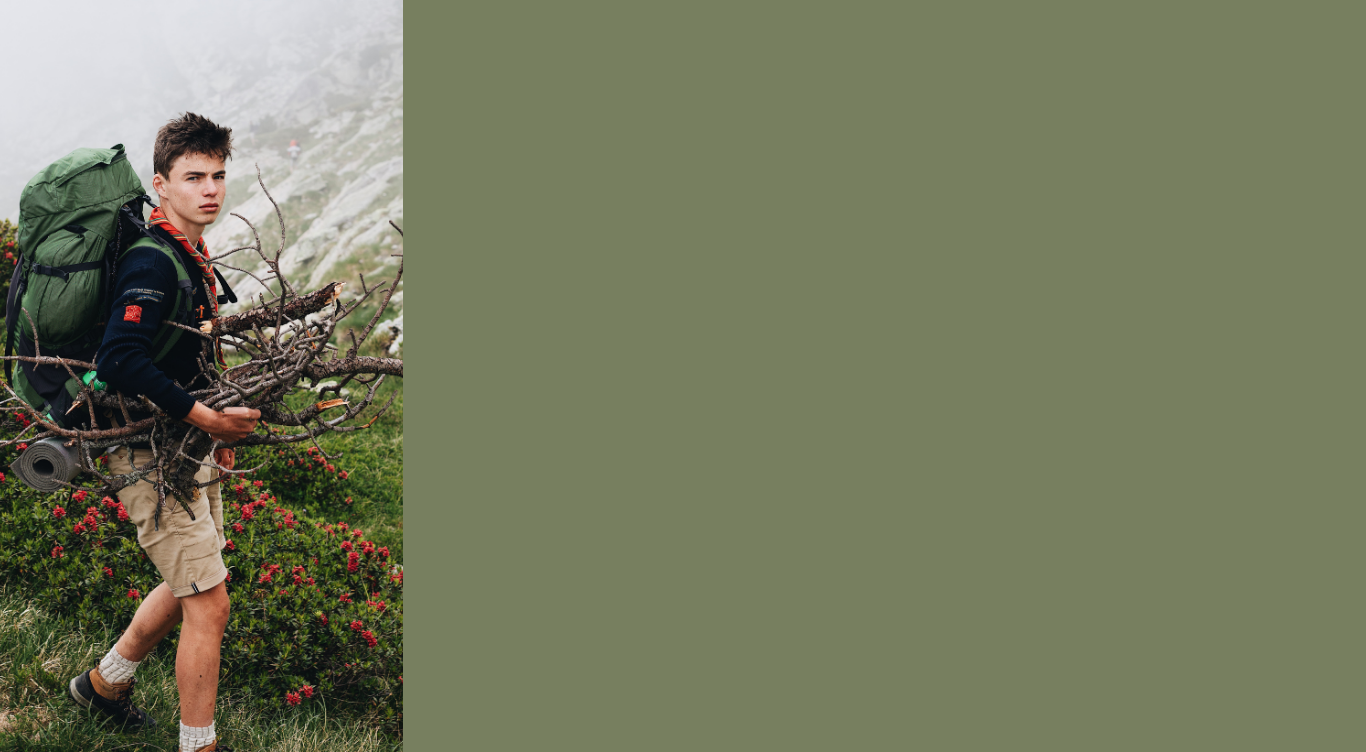
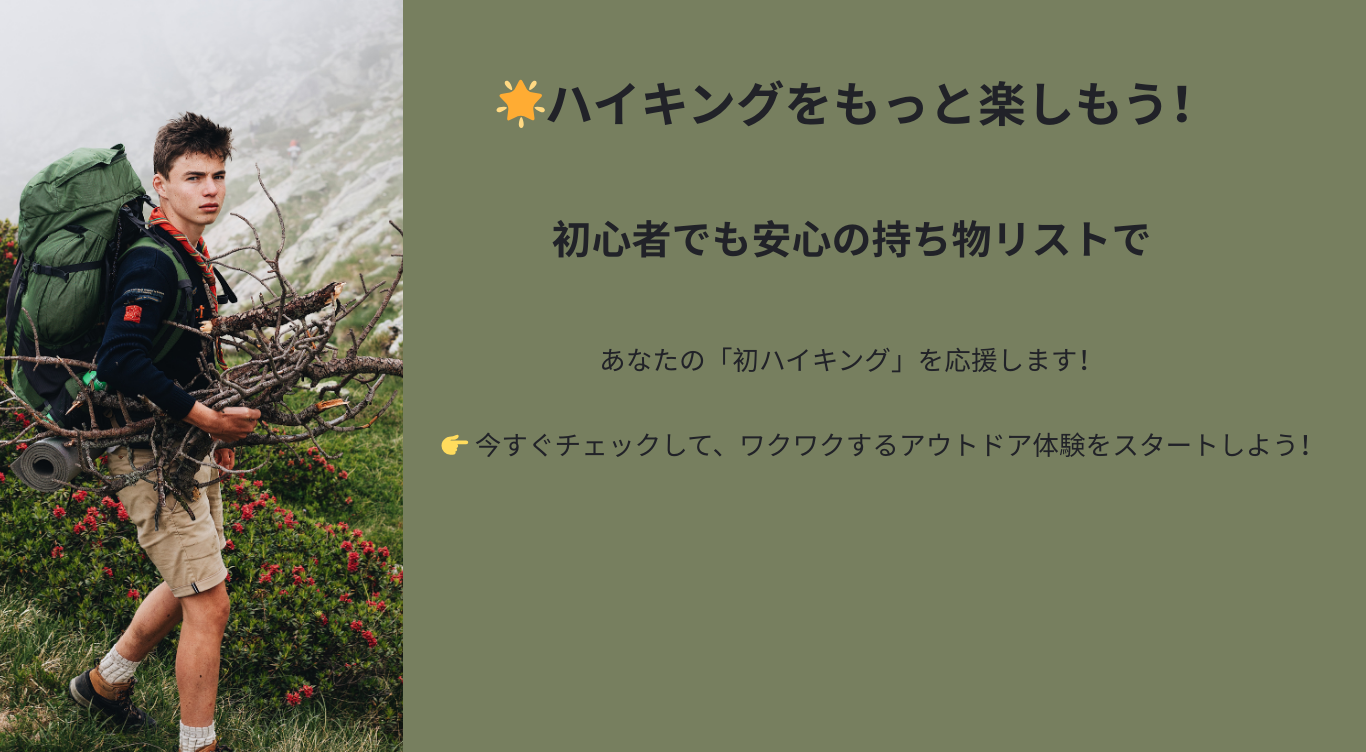
a

diff --git a/index.html b/index.html
@@ -4,16 +4,117 @@
     <meta charset="UTF-8">
     <meta name="viewport" content="width=device-width, initial-scale=1.0">
     <title>🏕 Hiking Checklist</title>
+    <meta name="viewport" content="width=device-width, initial-scale=1">
+    <link href="https://cdn.jsdelivr.net/npm/bootstrap@5.3.3/dist/css/bootstrap.min.css" rel="stylesheet">
+    <script src="https://cdn.jsdelivr.net/npm/bootstrap@5.3.3/dist/js/bootstrap.bundle.min.js"></script>
     <link rel="stylesheet"href="style.css">
 </head>
 <body>
-
-    <div class="image-container">
-        <img src="10.png"alt="サンプル画像"
+    <div class="title-wrapper">
+        <h2 class="main-title">⛰Hike Life</h2>
+      </div>
+      <div class="image-container">
+        
+        <img src="1.png"alt="サンプル画像">
+        <img src="2.png"alt="サンプル画像">
+        <img src="3.png"alt="サンプル画像">
+        <img src="4.png"alt="サンプル画像">
         
     </div>
-
-    <table cellpadding="0" cellspacing="0" border="0" style=" border:1px solid #ccc; width:300px;"><tbody><tr style="border-style:none;"><td style="vertical-align:top; border-style:none; padding:10px; width:44px;"><a href="https://rpx.a8.net/svt/ejp?a8mat=4534K0+61WO6Q+2HOM+BWGDT&rakuten=y&a8ejpredirect=https%3A%2F%2Fhb.afl.rakuten.co.jp%2Fhgc%2Fg00thk84.2bo11768.g00thk84.2bo122de%2Fa25040868022_4534K0_61WO6Q_2HOM_BWGDT%3Fpc%3Dhttps%253A%252F%252Fitem.rakuten.co.jp%252Fkom-kom%252Fone-touch-tent%252F%26amp%3Bm%3Dhttp%253A%252F%252Fm.rakuten.co.jp%252Fkom-kom%252Fi%252F10000075%252F%26amp%3Brafcid%3Dwsc_i_is_33f72da33714639c415e592c9633ecd7" rel="nofollow"><img border="0" alt="" src="https://thumbnail.image.rakuten.co.jp/@0_mall/kom-kom/cabinet/09525697/imgrc0093258016.jpg?_ex=64x64" /></a></td><td style="font-size:12px; vertical-align:middle; border-style:none; padding:10px;"><p style="padding:0; margin:0;"><a href="https://rpx.a8.net/svt/ejp?a8mat=4534K0+61WO6Q+2HOM+BWGDT&rakuten=y&a8ejpredirect=https%3A%2F%2Fhb.afl.rakuten.co.jp%2Fhgc%2Fg00thk84.2bo11768.g00thk84.2bo122de%2Fa25040868022_4534K0_61WO6Q_2HOM_BWGDT%3Fpc%3Dhttps%253A%252F%252Fitem.rakuten.co.jp%252Fkom-kom%252Fone-touch-tent%252F%26amp%3Bm%3Dhttp%253A%252F%252Fm.rakuten.co.jp%252Fkom-kom%252Fi%252F10000075%252F%26amp%3Brafcid%3Dwsc_i_is_33f72da33714639c415e592c9633ecd7" rel="nofollow">5の日限定全品5%OFFクーポン【天井カバー付き】ワンタッチテント フルクローズ 4人用 3人用 テント ワンタッチ おしゃれ ドームテント 折りたたみ 小型 遮光 簡易テント 軽量 防水 防災 キャンプ アウトドア ソロキャンプ 公園 uv加工 紫外線防止</a></p><p style="color:#666; margin-top:5px line-height:1.5;">価格:<span style="font-size:14px; color:#C00; font-weight:bold;">6980円</span><br/><span style="font-size:10px; font-weight:normal;">(2025/4/15 12:23時点)</span><br/><span style="font-weight:bold;">感想(208件)</span></p></td></tr></tbody></table>
-    <img border="0" width="1" height="1" src="https://www14.a8.net/0.gif?a8mat=4534K0+61WO6Q+2HOM+BWGDT" alt="">
+    <h2 class="section-title">⬇ 下のオススメリストをチェックしてみてね！</h2>
+<div class="field-container mt-4">
+   <div class="row">
+        
+        <div class="col-sm-6 col-md-3 mb-4">
+        <div class="card">
+        <img src="https://thumbnail.image.rakuten.co.jp/@0_mall/via-torino/cabinet/1/16/1657/1657-0085-1.jpg?_ex=128x128" class="card-img-top" alt="...">
+          <div class="card-body">
+          <h5 class="card-title">ハイキングシューズ</h5>
+          <p class="card-text text-truncate">ハイキング初心者にとって本当に頼れる一足です。疲れにくくて安全、そして見た目もおしゃれ。最初の一足として、本気でおすすめします！</p>
+          <a href="https://rpx.a8.net/svt/ejp?a8mat=4534K0+61WO6Q+2HOM+BWGDT&rakuten=y&a8ejpredirect=https%3A%2F%2Fhb.afl.rakuten.co.jp%2Fhgc%2Fg00qkr74.2bo11786.g00qkr74.2bo1295f%2Fa25040868022_4534K0_61WO6Q_2HOM_BWGDT%3Fpc%3Dhttps%253A%252F%252Fitem.rakuten.co.jp%252Fvia-torino%252F1657-0085%252F%26amp%3Bm%3Dhttp%253A%252F%252Fm.rakuten.co.jp%252Fvia-torino%252Fi%252F10146124%252F%26amp%3Brafcid%3Dwsc_i_is_33f72da33714639c415e592c9633ecd7" 
+          href="https://rpx.a8.net/svt/ejp?a8mat=4534K0+61WO6Q+2HOM+BWGDT&rakuten=y&a8ejpredirect=https%3A%2F%2Fhb.afl.rakuten.co.jp%2Fhgc%2Fg00qkr74.2bo11786.g00qkr74.2bo1295f%2Fa25040868022_4534K0_61WO6Q_2HOM_BWGDT%3Fpc%3Dhttps%253A%252F%252Fitem.rakuten.co.jp%252Fvia-torino%252F1657-0085%252F%26amp%3Bm%3Dhttp%253A%252F%252Fm.rakuten.co.jp%252Fvia-torino%252Fi%252F10146124%252F%26amp%3Brafcid%3Dwsc_i_is_33f72da33714639c415e592c9633ecd7" rel="nofollow"class="btn btn-primary">楽天でチェック</a>
+        </div>
+      </div>
+    </div>
+        <div class="col-sm-6 col-md-3 mb-4">
+        <div class="card">
+         <img src="https://thumbnail.image.rakuten.co.jp/@0_mall/dondon/cabinet/lxt02_4.jpg?_ex=128x128"" class="card-img-top" alt="...">
+          <div class="card-body">
+          <h5 class="card-title">テント</h5>
+          <p class="card-text text-truncate">軽くて安心・設営も楽な初心者向けテント</p>
+          <a href="https://rpx.a8.net/svt/ejp?a8mat=4534K0+61WO6Q+2HOM+BWGDT&rakuten=y&a8ejpredirect=https%3A%2F%2Fhb.afl.rakuten.co.jp%2Fhgc%2Fg00qqpq4.2bo11e2d.g00qqpq4.2bo12223%2Fa25040868022_4534K0_61WO6Q_2HOM_BWGDT%3Fpc%3Dhttps%253A%252F%252Fitem.rakuten.co.jp%252Fdondon%252Flxt02%252F%26amp%3Bm%3Dhttp%253A%252F%252Fm.rakuten.co.jp%252Fdondon%252Fi%252F10004333%252F%26amp%3Brafcid%3Dwsc_i_is_33f72da33714639c415e592c9633ecd7"
+          href="https://rpx.a8.net/svt/ejp?a8mat=4534K0+61WO6Q+2HOM+BWGDT&rakuten=y&a8ejpredirect=https%3A%2F%2Fhb.afl.rakuten.co.jp%2Fhgc%2Fg00qqpq4.2bo11e2d.g00qqpq4.2bo12223%2Fa25040868022_4534K0_61WO6Q_2HOM_BWGDT%3Fpc%3Dhttps%253A%252F%252Fitem.rakuten.co.jp%252Fdondon%252Flxt02%252F%26amp%3Bm%3Dhttp%253A%252F%252Fm.rakuten.co.jp%252Fdondon%252Fi%252F10004333%252F%26amp%3Brafcid%3Dwsc_i_is_33f72da33714639c415e592c9633ecd7" rel="nofollow"class="btn btn-primary">楽天でチェック</a>
+        </div>
+      </div>
+    </div>
+        <div class="col-sm-6 col-md-3 mb-4">
+        <div class="card">
+          <img src="https://thumbnail.image.rakuten.co.jp/@0_mall/anritsu-online/cabinet/7389803/jh-backpacktzan-01a.jpg?_ex=128x128" class="card-img-top" alt="...">
+            <div class="card-body">
+             <h5 class="card-title">リュックサック </h5>
+             <p class="card-text text-truncate">これからハイキングを始めたい人に最適なリュックです！
+                日帰りでも1泊でも、荷物をしっかり持ってくれて、長時間でも疲れにくい。迷ったらコレ！</p>
+             <a href="https://rpx.a8.net/svt/ejp?a8mat=4534K0+61WO6Q+2HOM+BWGDT&rakuten=y&a8ejpredirect=https%3A%2F%2Fhb.afl.rakuten.co.jp%2Fhgc%2Fg00tmh24.2bo11951.g00tmh24.2bo1271c%2Fa25040868022_4534K0_61WO6Q_2HOM_BWGDT%3Fpc%3Dhttps%253A%252F%252Fitem.rakuten.co.jp%252Fanritsu-online%252Fjh-backpacktzan-01%252F%26amp%3Bm%3Dhttp%253A%252F%252Fm.rakuten.co.jp%252Fanritsu-online%252Fi%252F10002895%252F%26amp%3Brafcid%3Dwsc_i_is_33f72da33714639c415e592c9633ecd7"
+              href="https://rpx.a8.net/svt/ejp?a8mat=4534K0+61WO6Q+2HOM+BWGDT&rakuten=y&a8ejpredirect=https%3A%2F%2Fhb.afl.rakuten.co.jp%2Fhgc%2Fg00tmh24.2bo11951.g00tmh24.2bo1271c%2Fa25040868022_4534K0_61WO6Q_2HOM_BWGDT%3Fpc%3Dhttps%253A%252F%252Fitem.rakuten.co.jp%252Fanritsu-online%252Fjh-backpacktzan-01%252F%26amp%3Bm%3Dhttp%253A%252F%252Fm.rakuten.co.jp%252Fanritsu-online%252Fi%252F10002895%252F%26amp%3Brafcid%3Dwsc_i_is_33f72da33714639c415e592c9633ecd7" rel="nofollow"class="btn btn-primary">楽天でチェック</a>
+        </div>
+      </div>
+    </div>
+        <div class="col-sm-6 col-md-3 mb-4">
+      <div class="card">
+        <img src="https://thumbnail.image.rakuten.co.jp/@0_mall/tanabesp/cabinet/test/ab/ame-o-ab3.jpg?_ex=128x128" class="card-img-top" alt="...">
+        <div class="card-body">
+          <h5 class="card-title">レインウェア</h5>
+          <p class="card-text text-truncate">突然の雨にもしっかり対応したい方</p>
+          <a href="https://rpx.a8.net/svt/ejp?a8mat=4534K0+61WO6Q+2HOM+BWGDT&rakuten=y&a8ejpredirect=https%3A%2F%2Fhb.afl.rakuten.co.jp%2Fhgc%2Fg00qaiw4.2bo11096.g00qaiw4.2bo127f6%2Fa25040868022_4534K0_61WO6Q_2HOM_BWGDT%3Fpc%3Dhttps%253A%252F%252Fitem.rakuten.co.jp%252Ftanabesp%252Fcd83025%252F%26amp%3Bm%3Dhttp%253A%252F%252Fm.rakuten.co.jp%252Ftanabesp%252Fi%252F10142711%252F%26amp%3Brafcid%3Dwsc_i_is_33f72da33714639c415e592c9633ecd7" 
+          href="https://rpx.a8.net/svt/ejp?a8mat=4534K0+61WO6Q+2HOM+BWGDT&rakuten=y&a8ejpredirect=https%3A%2F%2Fhb.afl.rakuten.co.jp%2Fhgc%2Fg00qaiw4.2bo11096.g00qaiw4.2bo127f6%2Fa25040868022_4534K0_61WO6Q_2HOM_BWGDT%3Fpc%3Dhttps%253A%252F%252Fitem.rakuten.co.jp%252Ftanabesp%252Fcd83025%252F%26amp%3Bm%3Dhttp%253A%252F%252Fm.rakuten.co.jp%252Ftanabesp%252Fi%252F10142711%252F%26amp%3Brafcid%3Dwsc_i_is_33f72da33714639c415e592c9633ecd7" rel="nofollow"class="btn btn-primary">楽天でチェック</a>
+        </div>
+      </div>
+    </div>
+        <div class="col-sm-6 col-md-3 mb-4">
+      <div class="card">
+        <img src="https://thumbnail.image.rakuten.co.jp/@0_mall/pajaboo/cabinet/northface/nn02345_1s.jpg?_ex=128x128" class="card-img-top" alt="...">
+        <div class="card-body">
+          <h5 class="card-title"> 帽子 </h5>
+          <p class="card-text text-truncate">・UVカット・雨や風の中でも脱げにくい帽子が欲しい</p>
+          <a href="https://rpx.a8.net/svt/ejp?a8mat=4534K0+61WO6Q+2HOM+BWGDT&rakuten=y&a8ejpredirect=https%3A%2F%2Fhb.afl.rakuten.co.jp%2Fhgc%2Fg00q9lr4.2bo11986.g00q9lr4.2bo12caf%2Fa25040868022_4534K0_61WO6Q_2HOM_BWGDT%3Fpc%3Dhttps%253A%252F%252Fitem.rakuten.co.jp%252Fpajaboo%252Fnorthface-nn02345%252F%26amp%3Bm%3Dhttp%253A%252F%252Fm.rakuten.co.jp%252Fpajaboo%252Fi%252F10009768%252F%26amp%3Brafcid%3Dwsc_i_is_33f72da33714639c415e592c9633ecd7" 
+          href="https://rpx.a8.net/svt/ejp?a8mat=4534K0+61WO6Q+2HOM+BWGDT&rakuten=y&a8ejpredirect=https%3A%2F%2Fhb.afl.rakuten.co.jp%2Fhgc%2Fg00q9lr4.2bo11986.g00q9lr4.2bo12caf%2Fa25040868022_4534K0_61WO6Q_2HOM_BWGDT%3Fpc%3Dhttps%253A%252F%252Fitem.rakuten.co.jp%252Fpajaboo%252Fnorthface-nn02345%252F%26amp%3Bm%3Dhttp%253A%252F%252Fm.rakuten.co.jp%252Fpajaboo%252Fi%252F10009768%252F%26amp%3Brafcid%3Dwsc_i_is_33f72da33714639c415e592c9633ecd7" rel="nofollow"class="btn btn-primary">楽天でチェック</a>
+        </div>
+      </div>
+    </div>
+        <div class="col-sm-6 col-md-3 mb-4">
+      <div class="card">
+        <img src="https://thumbnail.image.rakuten.co.jp/@0_mall/bestday/cabinet/09403890/09920483/imgrc0094754607.jpg?_ex=128x128" class="card-img-top" alt="...">
+        <div class="card-body">
+          <h5 class="card-title">ウォーキングポール </h5>
+          <p class="card-text text-truncate">長時間歩くと膝や足が疲れやすい</p>
+          <a href="https://rpx.a8.net/svt/ejp?a8mat=4534K0+61WO6Q+2HOM+BWGDT&rakuten=y&a8ejpredirect=https%3A%2F%2Fhb.afl.rakuten.co.jp%2Fhgc%2Fg00u6qn4.2bo11b5e.g00u6qn4.2bo1292d%2Fa25040868022_4534K0_61WO6Q_2HOM_BWGDT%3Fpc%3Dhttps%253A%252F%252Fitem.rakuten.co.jp%252Fbestday%252Ftbd-035955%252F%26amp%3Bm%3Dhttp%253A%252F%252Fm.rakuten.co.jp%252Fbestday%252Fi%252F10000572%252F%26amp%3Brafcid%3Dwsc_i_is_33f72da33714639c415e592c9633ecd7"
+          href="https://rpx.a8.net/svt/ejp?a8mat=4534K0+61WO6Q+2HOM+BWGDT&rakuten=y&a8ejpredirect=https%3A%2F%2Fhb.afl.rakuten.co.jp%2Fhgc%2Fg00u6qn4.2bo11b5e.g00u6qn4.2bo1292d%2Fa25040868022_4534K0_61WO6Q_2HOM_BWGDT%3Fpc%3Dhttps%253A%252F%252Fitem.rakuten.co.jp%252Fbestday%252Ftbd-035955%252F%26amp%3Bm%3Dhttp%253A%252F%252Fm.rakuten.co.jp%252Fbestday%252Fi%252F10000572%252F%26amp%3Brafcid%3Dwsc_i_is_33f72da33714639c415e592c9633ecd7" rel="nofollow"class="btn btn-primary">楽天でチェック</a>
+        </div>
+      </div>
+    </div>
+        <div class="col-sm-6 col-md-3 mb-4">
+      <div class="card">
+        <img src="https://thumbnail.image.rakuten.co.jp/@0_mall/suunto-official/cabinet/ranking/suunto-055-002.jpg?_ex=128x128" class="card-img-top" alt="...">
+        <div class="card-body">
+          <h5 class="card-title">登山コンパス </h5>
+          <p class="card-text text-truncate">スマホに頼らず山での安全を確保したい人</p>
+          <a href="https://rpx.a8.net/svt/ejp?a8mat=4534K0+61WO6Q+2HOM+BWGDT&rakuten=y&a8ejpredirect=https%3A%2F%2Fhb.afl.rakuten.co.jp%2Fhgc%2Fg00u5hk4.2bo112a8.g00u5hk4.2bo12f58%2Fa25040868022_4534K0_61WO6Q_2HOM_BWGDT%3Fpc%3Dhttps%253A%252F%252Fitem.rakuten.co.jp%252Fsuunto-official%252Fsuunto-055%252F%26amp%3Bm%3Dhttp%253A%252F%252Fm.rakuten.co.jp%252Fsuunto-official%252Fi%252F10000045%252F%26amp%3Brafcid%3Dwsc_i_is_33f72da33714639c415e592c9633ecd7" 
+          href="https://rpx.a8.net/svt/ejp?a8mat=4534K0+61WO6Q+2HOM+BWGDT&rakuten=y&a8ejpredirect=https%3A%2F%2Fhb.afl.rakuten.co.jp%2Fhgc%2Fg00u5hk4.2bo112a8.g00u5hk4.2bo12f58%2Fa25040868022_4534K0_61WO6Q_2HOM_BWGDT%3Fpc%3Dhttps%253A%252F%252Fitem.rakuten.co.jp%252Fsuunto-official%252Fsuunto-055%252F%26amp%3Bm%3Dhttp%253A%252F%252Fm.rakuten.co.jp%252Fsuunto-official%252Fi%252F10000045%252F%26amp%3Brafcid%3Dwsc_i_is_33f72da33714639c415e592c9633ecd7" rel="nofollow"class="btn btn-primary">楽天でチェック</a>
+        </div>
+      </div>
+    </div>
+        <div class="col-sm-6 col-md-3 mb-4">
+      <div class="card">
+        <img src="https://thumbnail.image.rakuten.co.jp/@0_mall/rainbowshoji/cabinet/huodong/va033311.jpg?_ex=128x128" class="card-img-top" alt="...">
+        <div class="card-body">
+          <h5 class="card-title">モバイルバッテリー</h5>
+          <p class="card-text text-truncate">地図アプリやカメラをよく使う人</p>
+          <a href="https://rpx.a8.net/svt/ejp?a8mat=4534K0+61WO6Q+2HOM+BWGDT&rakuten=y&a8ejpredirect=https%3A%2F%2Fhb.afl.rakuten.co.jp%2Fhgc%2Fg00s4g94.2bo11233.g00s4g94.2bo12326%2Fa25040868022_4534K0_61WO6Q_2HOM_BWGDT%3Fpc%3Dhttps%253A%252F%252Fitem.rakuten.co.jp%252Frainbowshoji%252Ftaiyang-15000mah-1%252F%26amp%3Bm%3Dhttp%253A%252F%252Fm.rakuten.co.jp%252Frainbowshoji%252Fi%252F10001955%252F%26amp%3Brafcid%3Dwsc_i_is_33f72da33714639c415e592c9633ecd7" 
+          href="https://rpx.a8.net/svt/ejp?a8mat=4534K0+61WO6Q+2HOM+BWGDT&rakuten=y&a8ejpredirect=https%3A%2F%2Fhb.afl.rakuten.co.jp%2Fhgc%2Fg00s4g94.2bo11233.g00s4g94.2bo12326%2Fa25040868022_4534K0_61WO6Q_2HOM_BWGDT%3Fpc%3Dhttps%253A%252F%252Fitem.rakuten.co.jp%252Frainbowshoji%252Ftaiyang-15000mah-1%252F%26amp%3Bm%3Dhttp%253A%252F%252Fm.rakuten.co.jp%252Frainbowshoji%252Fi%252F10001955%252F%26amp%3Brafcid%3Dwsc_i_is_33f72da33714639c415e592c9633ecd7" rel="nofollow"class="btn btn-primary">楽天でチェック</a>
+        </div>
+      </div>
+    </div>
+   </div>
+</div>
 </body>
 </html>

diff --git a/style.css b/style.css
@@ -1,3 +1,27 @@
+.title-wrapper {
+    text-align: center;
+  }
+  
+  .main-title {
+    font-family: 'Georgia', serif;
+    font-size: 2.5rem;
+    color: #2e4e1f;
+    margin-top: 40px; 
+    margin-bottom: 30px;
+    position: relative;
+    display: inline-block;
+    padding: 0 20px;
+  }
+  
+  .main-title::after {
+    content: '';
+    display: block;
+    width: 60%;
+    height: 3px;
+    background-color: #8FBC8F;
+    margin: 10px auto 0;
+    border-radius: 2px;
+  }
 .image-container{
     max-width: 100%;
     height:auto;
@@ -7,4 +31,25 @@
     width: 100%;
     height: auto;
     display: block;
+}
+.section-title {
+    text-align: center;
+    font-size: 1.5rem;
+    margin-top: 40px;     /* 上にスペース追加（画像との間） */
+    margin-bottom: 30px;  /* 下にも少し余裕 */
+    color: #135c32;
+  }
+
+
+.field-container {
+    display: flex;
+    justify-content: center;
+    max-width: 1200px;
+    margin: 0 auto;
+    padding: 20px;
+  }
+.field-container img{
+    width: 100%;
+    height: auto;
+    max-height: 800px;
 }
